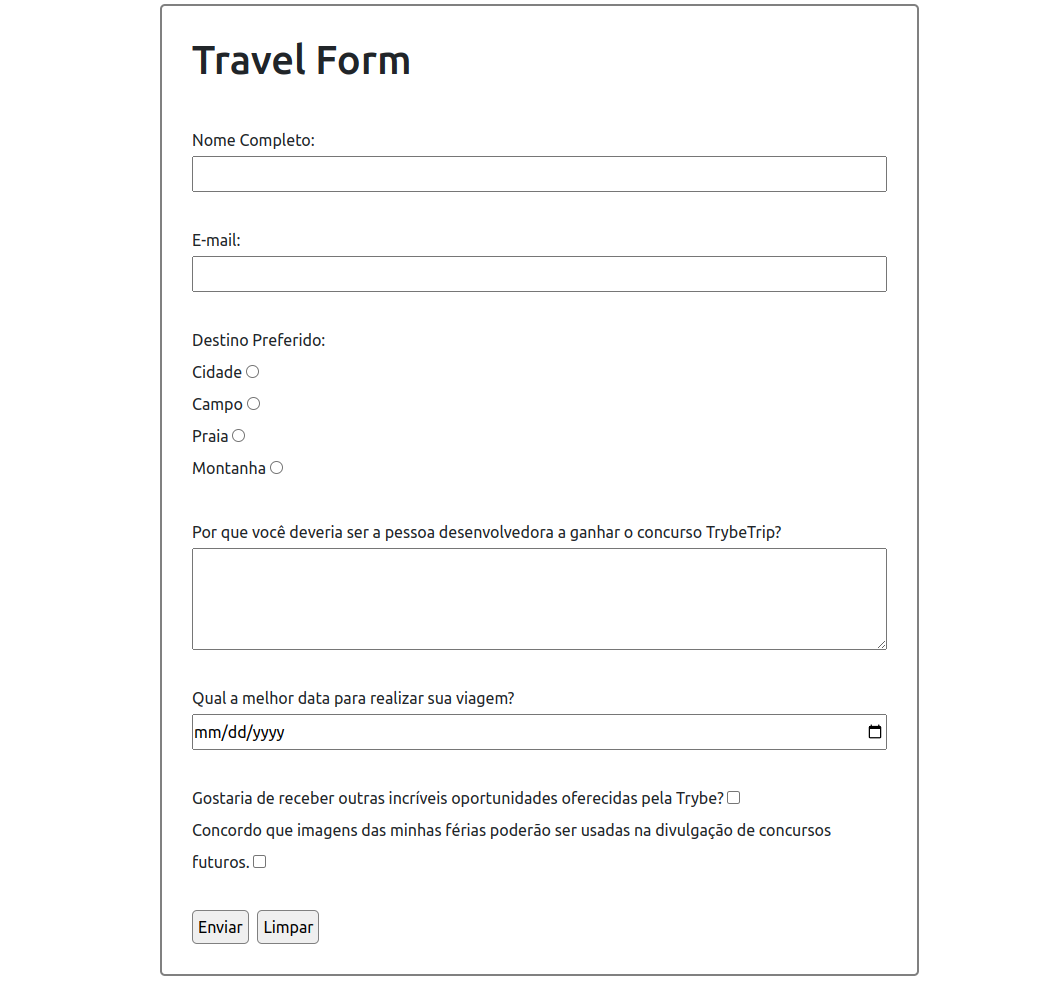
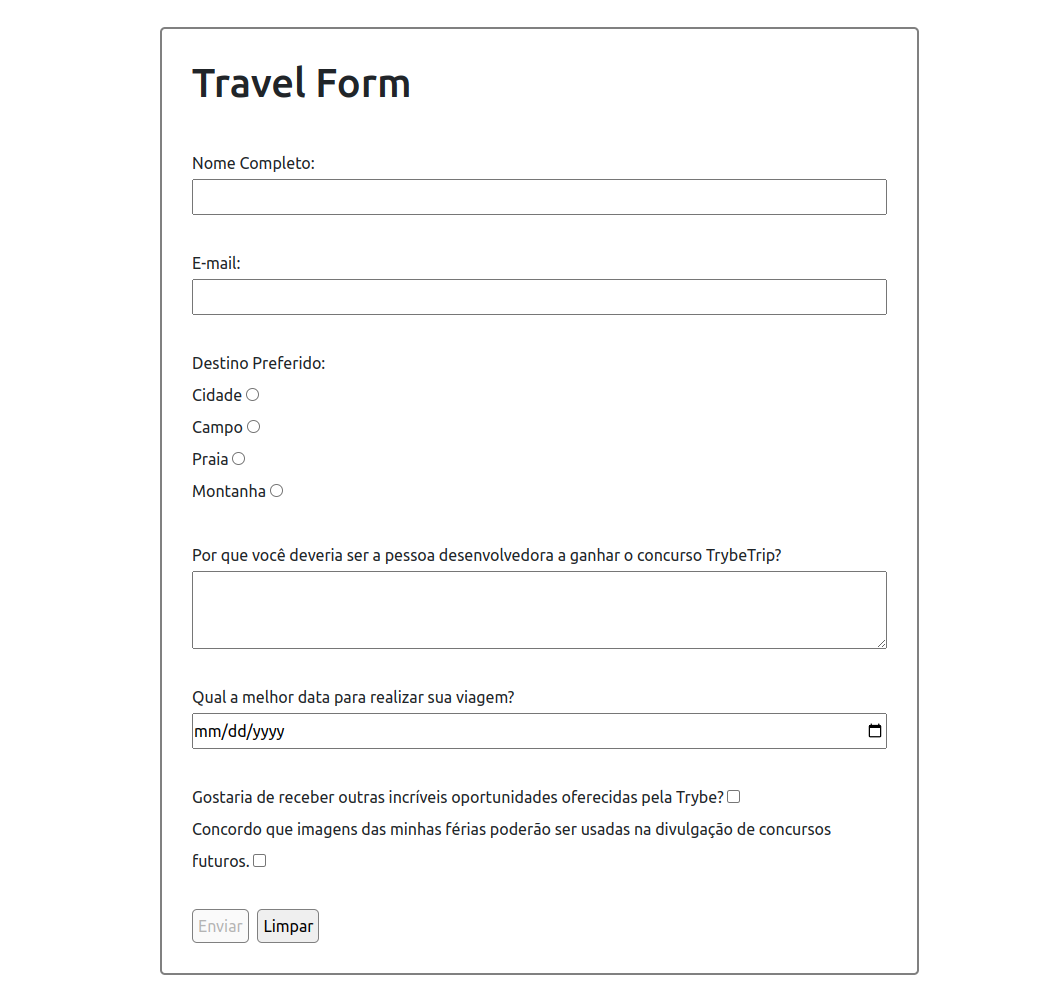
add readme

diff --git a/form.html b/form.html
@@ -1,75 +1,56 @@
 <!DOCTYPE html>
 <html lang="en">
-  <head>
-    <meta charset="UTF-8" />
-    <meta http-equiv="X-UA-Compatible" content="IE=edge" />
-    <meta name="viewport" content="width=device-width, initial-scale=1.0" />
-    <script src="https://unpkg.com/just-validate@latest/dist/just-validate.production.min.js"></script>
 
-    <title>Travel Form</title>
-    <link
-      href="https://cdn.jsdelivr.net/npm/bootstrap@5.2.3/dist/css/bootstrap.min.css"
-      rel="stylesheet"
-      integrity="sha384-rbsA2VBKQhggwzxH7pPCaAqO46MgnOM80zW1RWuH61DGLwZJEdK2Kadq2F9CUG65"
-      crossorigin="anonymous"
-    />
-    <link rel="stylesheet" href="./style.css" />
-  </head>
-  <body>
-    <form action="" id="main-form">
-      <h1 id="title">Travel Form</h1>
+<head>
+  <meta charset="UTF-8" />
+  <meta http-equiv="X-UA-Compatible" content="IE=edge" />
+  <meta name="viewport" content="width=device-width, initial-scale=1.0" />
+  <script src="https://unpkg.com/just-validate@latest/dist/just-validate.production.min.js"></script>
 
-      <br />
-      Nome Completo:<input
-        type="text"
-        id="fullName"
-        minlength="10"
-        maxlength="40"
-      />
-      <br />
-      E-mail: <input type="email" id="email" minlength="10" maxlength="50" />
-      <br />
-      Destino Preferido:
+  <title>Travel Form</title>
+  <link href="https://cdn.jsdelivr.net/npm/bootstrap@5.2.3/dist/css/bootstrap.min.css" rel="stylesheet"
+    integrity="sha384-rbsA2VBKQhggwzxH7pPCaAqO46MgnOM80zW1RWuH61DGLwZJEdK2Kadq2F9CUG65" crossorigin="anonymous" />
+  <link rel="stylesheet" href="./style.css" />
+</head>
 
-      <label for="input-cidade"
-        >Cidade <input type="radio" name="destinations" id="input-cidade"
-      /></label>
-      <label for="input-campo"
-        >Campo <input type="radio" name="destinations" id="input-campo"
-      /></label>
-      <label for="input-praia"
-        >Praia <input type="radio" name="destinations" id="input-praia"
-      /></label>
-      <label for="input-montanha"
-        >Montanha <input type="radio" name="destinations" id="input-montanha"
-      /></label>
-      <br />
-      Por que você deveria ser a pessoa desenvolvedora a ganhar o concurso
-      TrybeTrip?
-      <br /><textarea
-        id="question"
-        cols="30"
-        rows="10"
-        maxlength="500"
-      ></textarea>
-      <br />
-      Qual a melhor data para realizar sua viagem?
-      <input type="date" id="date" />
-      <br />
-      <div>
+<body>
+  <form action="" id="main-form">
+    <h1 id="title">Travel Form</h1>
+
+    <br />
+    Nome Completo:<input type="text" id="fullName" minlength="10" maxlength="40" />
+    <br />
+    E-mail: <input type="email" id="email" minlength="10" maxlength="50" />
+    <br />
+    Destino Preferido:
+
+    <label for="input-cidade">Cidade <input type="radio" name="destinations" id="input-cidade" /></label>
+    <label for="input-campo">Campo <input type="radio" name="destinations" id="input-campo" /></label>
+    <label for="input-praia">Praia <input type="radio" name="destinations" id="input-praia" /></label>
+    <label for="input-montanha">Montanha <input type="radio" name="destinations" id="input-montanha" /></label>
+    <br />
+    Por que você deveria ser a pessoa desenvolvedora a ganhar o concurso
+    TrybeTrip?
+    <br /><textarea id="question" cols="30" rows="10" maxlength="500"></textarea>
+    <br />
+    Qual a melhor data para realizar sua viagem?
+    <input type="date" id="date" />
+    <br />
+    <div>
       Gostaria de receber outras incríveis oportunidades oferecidas pela
       Trybe? <input type="checkbox" id="promo" />
     </div>
-<div>
+    <div>
       Concordo que imagens das minhas férias poderão ser usadas na divulgação de
       concursos futuros. <input type="checkbox" id="agreement" />
-<div>
+      <div>
 
-      <div id="errorContainer"></div>
-      <br />
-      <button type="submit" id="submit-btn">Enviar</button>
-      <button type="reset" id="clear-btn">Limpar</button>
-    </form>
-    <script src="./script.js"></script>
-  </body>
+        <div id="errorContainer"></div>
+        <br />
+        <button type="submit" id="submit-btn">Enviar</button>
+        <button type="reset" id="clear-btn">Limpar</button>
+  </form>
+  <script src="./script.js"></script>
+</body>
+
 </html>

diff --git a/script.js b/script.js
@@ -1,7 +1,7 @@
 // const { default: JustValidate } = require('just-validate');
 
 // const validator = new JustValidate('#main-form');
-// const submitBtn = document.querySelector('#submit-btn');
+const submitBtn = document.querySelector('#submit-btn');
 // const agreement = document.querySelector('#agreement');
 
 // // gitRequisito 4 //

diff --git a/README.md b/README.md
@@ -6,7 +6,7 @@
 
 ## Project Description
 
-This project was designed to exercise my logic with a few challenges, such as calculating triangle areas, modifying strings, and implementing the classic Fizz Buzz problem.
+This project was designed to develop a form trip in which the user fills in the inputs, and JavaScript validates them to enable the submit button.
 
 ### Technologies
 
@@ -18,7 +18,8 @@ This project was designed to exercise my logic with a few challenges, such as ca
 
 ### What I Learned
 
-- Javascript methods such as unshift, join and Math.abs
+- A lot HTML form tags
+- How to use event listener in buttons and inputs
 
 ## How to Run the Project
 
@@ -40,7 +41,7 @@ This project was designed to exercise my logic with a few challenges, such as ca
    npm install
    ```
 
-4. Right click index.html and open it with live server
+4. Right click form.html and open it with live server
 
 ## Contributions
 
